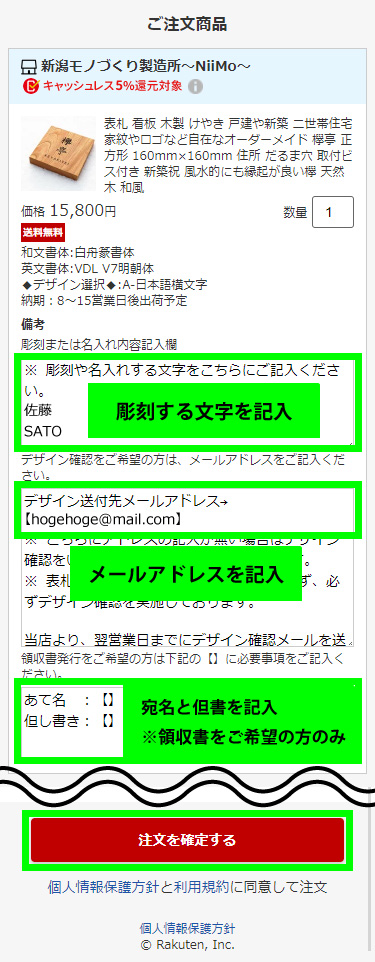
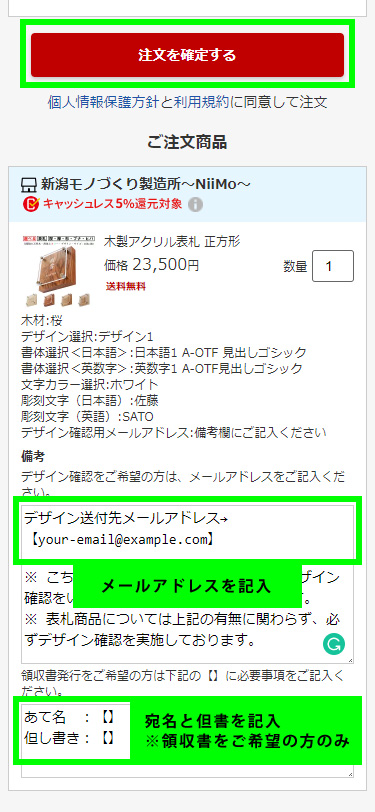
アクリル表札にHowtoorderの画像をあわせた

diff --git a/index2020/content/howtoorder.html b/index2020/content/howtoorder.html
@@ -187,7 +187,8 @@
       <span>1.</span>
       表札のデザインや書体を選択し、商品をかごに入れる
     </h3>
-    <p>ご希望の商品のページより、デザイン、書体を選択してください。選択項目をご確認後、「商品をかごに追加」または「購入手続きへ」ボタンをタップしてください。</p>
+    <p>ご希望の商品のページより、デザイン、書体を選択してください。また、彫刻する文字を忘れずにご記入ください。</p>
+    <p>選択項目をご確認後、「商品をかごに追加」または「購入手続きへ」ボタンをタップしてください。</p>
     <img src="img/howtoorder/howto-sp01.jpg" alt="">
 
     <h3>
@@ -195,7 +196,7 @@
       ご注文内容を確認し、注文を確定する
     </h3>
     <p>ご注文の商品、数量、デザインや書体など再度ご確認ください。</p>
-    <p><b>彫刻する文字、メールアドレス、宛名と但書（領収書をご希望の方のみ）を記入</b>し、「注文を確定する」ボタンをタップします。</p>
+    <p><b>メールアドレス、宛名と但書（領収書をご希望の方のみ）を記入</b>し、「注文を確定する」ボタンをタップします。</p>
     <p>お疲れさまでした！以上で注文完了です！</p>
     <img src="img/howtoorder/howto-sp02.jpg" alt="">
   </div>
@@ -208,7 +209,8 @@
           <span>1.</span>
           表札のデザインや書体を選択する
         </h3>
-        <p>ご希望の商品のページより、デザイン、書体を選択してください。</p>
+        <p>ご希望の商品のページより、木材、デザイン、書体を選択してください。</p>
+        <p>また、彫刻する文字を忘れずにご記入ください。</p>
         <h3>
           <span>2.</span>
           商品をかごに入れる
@@ -242,9 +244,9 @@
       <div class="pull-left">
         <h3>
           <span>5.</span>
-          彫刻する文字とメールアドレスを入力する
+          メールアドレスを入力する
         </h3>
-        <p>彫刻する文字とメールアドレスを備考欄に記入してください。領収書をご希望の方は、宛名と但書もご記入ください。</p>
+        <p>メールアドレスを備考欄に記入してください。領収書をご希望の方は、宛名と但書もご記入ください。</p>
         <h3>
           <span>6.</span>
           注文を確定する
